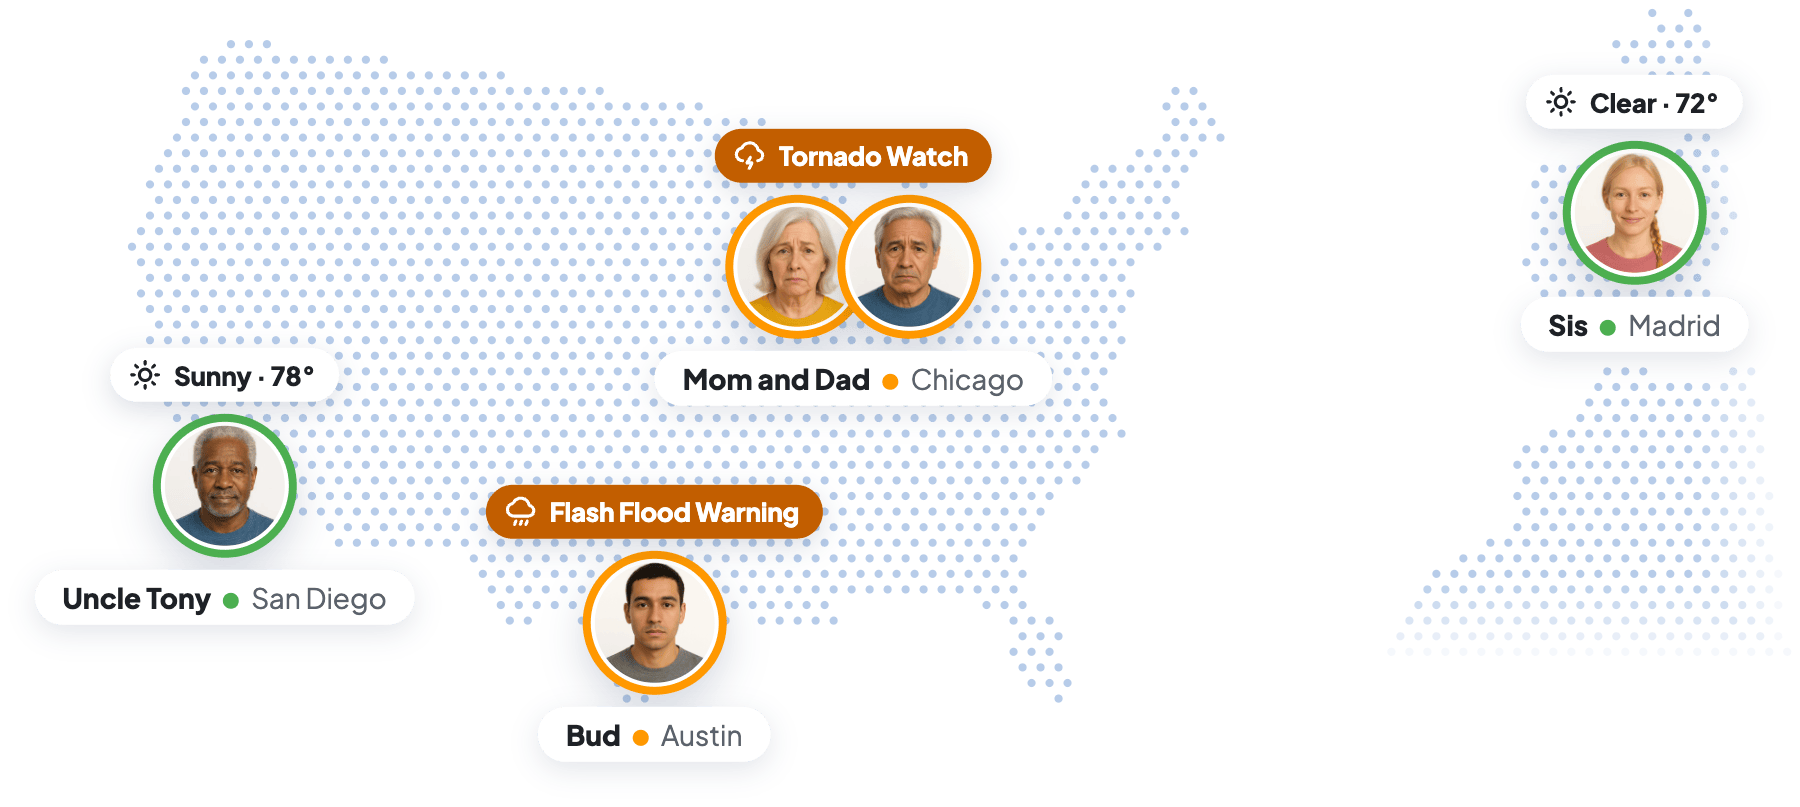
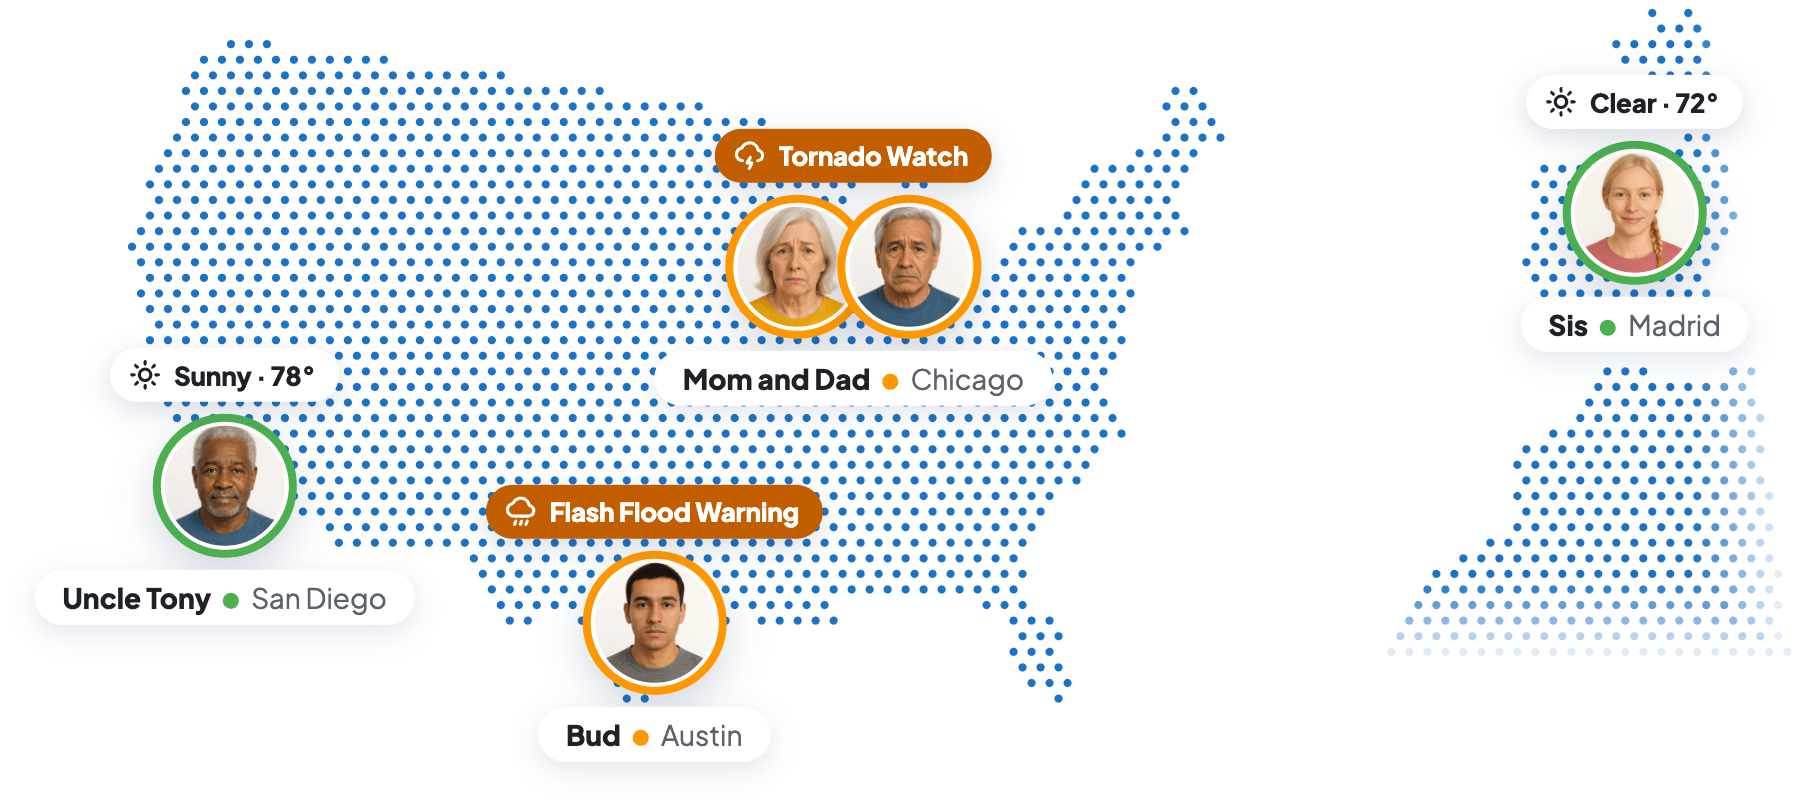
Family map: country dots in the site's main blue

diff --git a/index.html b/index.html
@@ -67,7 +67,7 @@
         <h2>Find your people</h2>
         <p>One app for everyone you worry about, whether they're a few miles or a few states away. No more checking the weather in five cities, a map in one app, and crime alerts in another. It's all in one&nbsp;place.</p>
       </div>
-      <figure class="map"><img src="images/home/family-map.png?v=1019b" alt="A map of the United States, with the western edge of Europe and Africa across the Atlantic, showing five Loved Ones in four cities and the weather near each: sunny in San Diego for Uncle Tony, a flash flood warning in Austin for Bud, a tornado watch in Chicago for Mom and Dad, and clear skies in Madrid for Sis." width="900" height="404" loading="lazy"></figure>
+      <figure class="map"><img src="images/home/family-map.png?v=1019c" alt="A map of the United States, with the western edge of Europe and Africa across the Atlantic, showing five Loved Ones in four cities and the weather near each: sunny in San Diego for Uncle Tony, a flash flood warning in Austin for Bud, a tornado watch in Chicago for Mom and Dad, and clear skies in Madrid for Sis." width="900" height="404" loading="lazy"></figure>
       <div class="who">
         <a href="for-aging-parents.html">
           <div class="faces" aria-hidden="true"><img src="images/home/mom.jpg" alt=""><img src="images/home/dad.jpg" alt=""></div>

diff --git a/for-grown-up-families.html b/for-grown-up-families.html
@@ -284,7 +284,7 @@
   </section>
 
   <section id="all-is-well" class="page-section">
-    <figure class="grown-map"><img src="images/home/family-map.png?v=1019b" alt="A map of the United States, with the western edge of Europe and Africa across the Atlantic, showing five Loved Ones in four cities and the weather near each: sunny in San Diego for Uncle Tony, a flash flood warning in Austin for Bud, a tornado watch in Chicago for Mom and Dad, and clear skies in Madrid for Sis." width="900" height="404" loading="lazy"></figure>
+    <figure class="grown-map"><img src="images/home/family-map.png?v=1019c" alt="A map of the United States, with the western edge of Europe and Africa across the Atlantic, showing five Loved Ones in four cities and the weather near each: sunny in San Diego for Uncle Tony, a flash flood warning in Austin for Bud, a tornado watch in Chicago for Mom and Dad, and clear skies in Madrid for Sis." width="900" height="404" loading="lazy"></figure>
     <div class="section-inner split">
       <div class="split-text">
         <p class="question">"Is everyone okay&nbsp;today?"</p>

diff --git a/features.html b/features.html
@@ -160,7 +160,7 @@
         <li>Alerts come from <a href="weather-alert-sources.html">official weather and emergency&nbsp;agencies</a>.</li>
       </ul>
     </div>
-    <figure class="map"><img src="images/home/family-map.png?v=1019b" alt="A map of the United States, with the western edge of Europe and Africa across the Atlantic, showing five Loved Ones in four cities and the weather near each: sunny in San Diego for Uncle Tony, a flash flood warning in Austin for Bud, a tornado watch in Chicago for Mom and Dad, and clear skies in Madrid for Sis." width="900" height="404" loading="lazy"></figure>
+    <figure class="map"><img src="images/home/family-map.png?v=1019c" alt="A map of the United States, with the western edge of Europe and Africa across the Atlantic, showing five Loved Ones in four cities and the weather near each: sunny in San Diego for Uncle Tony, a flash flood warning in Austin for Bud, a tornado watch in Chicago for Mom and Dad, and clear skies in Madrid for Sis." width="900" height="404" loading="lazy"></figure>
   </section>
 
   <section class="page-section" id="away">

diff --git a/content/website/family-map/family-map.html b/content/website/family-map/family-map.html
@@ -4,7 +4,7 @@
 <style>/* The family map illustration. One component, used on the homepage ("Find your people")
    and on How it works ("Weather where they are"). Self-contained so both pages render it the same. */
 .map { position: relative; margin: 44px auto 24px; max-width: 866px; font-family: 'Plus Jakarta Sans', -apple-system, system-ui, sans-serif; }
-.map > svg { display: block; width: 100%; height: auto; fill: #B7CCE9; }
+.map > svg { display: block; width: 100%; height: auto; fill: #1B73C6; }
 .map .pin { position: absolute; transform: translate(-50%, -38%); display: flex; flex-direction: column; align-items: center; gap: 6px; text-align: center; }
 .map .pin .faces { display: flex; align-items: center; justify-content: center; padding: 0; }
 .map .pin .faces img { flex: none; max-width: none; width: 72px; height: 72px; border-radius: 50%; border: 4px solid #4CAF50; background: #fff; padding: 2px; margin: 0 -8px; object-fit: cover; box-shadow: 0 8px 20px rgba(20, 40, 80, .18); box-sizing: border-box; }

diff --git a/for-college-families.html b/for-college-families.html
@@ -95,7 +95,7 @@
 
   <section id="family-map" class="page-section">
     <div class="section-inner">
-      <figure class="map"><img src="images/home/family-map.png?v=1019b" alt="A map of the United States, with the western edge of Europe and Africa across the Atlantic, showing five Loved Ones in four cities and the weather near each: sunny in San Diego for Uncle Tony, a flash flood warning in Austin for Bud, a tornado watch in Chicago for Mom and Dad, and clear skies in Madrid for Sis." width="900" height="404" loading="lazy"></figure>
+      <figure class="map"><img src="images/home/family-map.png?v=1019c" alt="A map of the United States, with the western edge of Europe and Africa across the Atlantic, showing five Loved Ones in four cities and the weather near each: sunny in San Diego for Uncle Tony, a flash flood warning in Austin for Bud, a tornado watch in Chicago for Mom and Dad, and clear skies in Madrid for Sis." width="900" height="404" loading="lazy"></figure>
     </div>
   </section>
 

diff --git a/who-its-for.html b/who-its-for.html
@@ -88,7 +88,7 @@
 
   <section id="family-map" class="page-section">
     <div class="section-inner">
-      <figure class="map"><img src="images/home/family-map.png?v=1019b" alt="A map of the United States, with the western edge of Europe and Africa across the Atlantic, showing five Loved Ones in four cities and the weather near each: sunny in San Diego for Uncle Tony, a flash flood warning in Austin for Bud, a tornado watch in Chicago for Mom and Dad, and clear skies in Madrid for Sis." width="900" height="404" loading="lazy"></figure>
+      <figure class="map"><img src="images/home/family-map.png?v=1019c" alt="A map of the United States, with the western edge of Europe and Africa across the Atlantic, showing five Loved Ones in four cities and the weather near each: sunny in San Diego for Uncle Tony, a flash flood warning in Austin for Bud, a tornado watch in Chicago for Mom and Dad, and clear skies in Madrid for Sis." width="900" height="404" loading="lazy"></figure>
     </div>
   </section>
 

diff --git a/CHANGELOG.md b/CHANGELOG.md
@@ -2,6 +2,11 @@
 
 Changes to thelooopapp.com, newest first. This file is not published (see `_config.yml`).
 
+## 2026-10-19 19:20 CT
+
+### Design
+- **Family map dots are now the site's main blue** (`#1B73C6`, was the pale `#B7CCE9`), so the country shapes read more clearly. Changed in `content/website/family-map/family-map.html` and re-rendered `images/home/family-map.png`. The image link is bumped to `?v=1019c` on the homepage, How it works, Who it's for, For grown-up families and For college families.
+
 ## 2026-10-19 19:10 CT
 
 ### New Features
